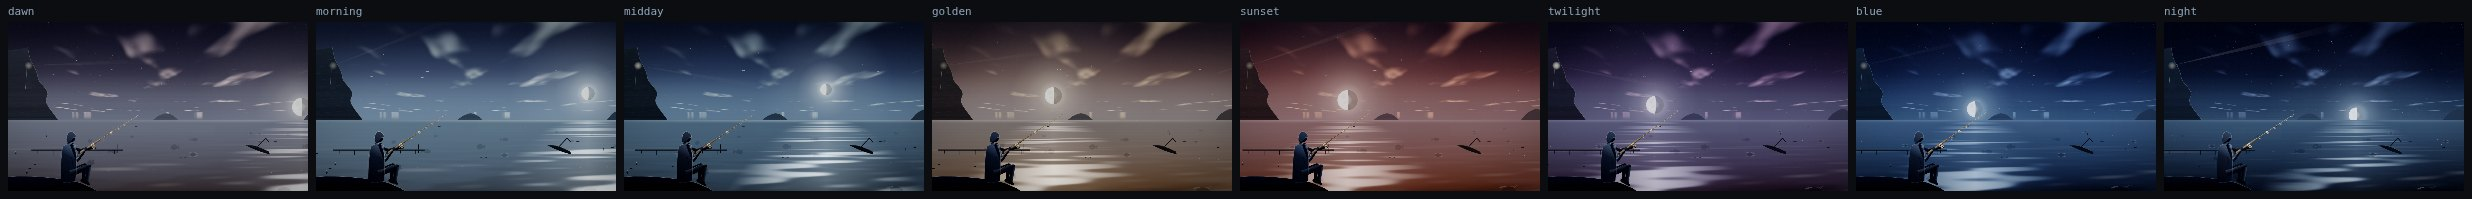
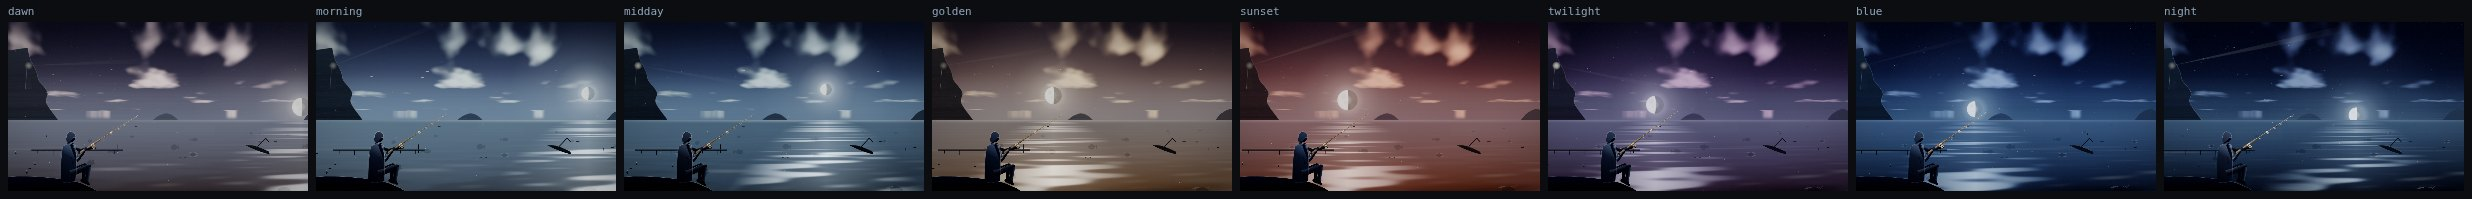
The wedges were the cloud projection, and the lag was resolution
TWO FAULTS IN ONE SCREENSHOT.

The sky was a fan of hard wedges radiating out of the light, with blocky
banding along the horizon. Both were mine and both were in the cloud deck.

THE FAN. A flat deck seen from below compresses toward the horizon as
1/angle, and I applied that to both axes, which is geometrically right and
visually fatal: lines of constant lateral coordinate then converge on the
vanishing point, so low-frequency noise sampled through it comes out as
wedges radiating from exactly there. Real cloud does converge, but a camera's
field of view is narrow enough that it converges gently over the part of the
sky you can see. The sideways term is pulled most of the way back toward flat
now — the recession stays, the fan goes.

THE BLOCKS. Value noise on a cubic interpolant is continuous in value and
first derivative but not the second, so its cell boundaries stay visible as
faint creases; summed over octaves that all sit on the same axis-aligned
lattice, the creases line up into rectangles. Quintic interpolation, and a
rotation between octaves so no two share a grid direction.

AND THE LAG WAS NOT THE SHADER BEING CLEVER, IT WAS THE SHADER BEING BIG.

The sky and the sea are the most expensive fragments in the game — a
multi-octave noise field over half the frame, every pixel, every frame — and
on a high-density display they were computed at four times the pixels they
can use. What is in them is a gradient, a cloud deck and a wave field: smooth,
[…]

diff --git a/js/gl/world.js b/js/gl/world.js
@@ -92,6 +92,7 @@ uniform float voidK;        // how much of this place is not water
 uniform float cloudAmt;     // 0 clear, 1 closed over
 uniform float cloudY;       // how high the deck sits. low deck = fast, big shapes
 uniform vec3  cloudTint;
+uniform int   qual;        // 0 low · 1 medium · 2 high · 3 cinematic
 uniform int   skyModel;     // 0 open · 1 closed · 2 inverted · 3 unbounded
 uniform int   waterModel;   // 0 open · 1 mirror · 2 swell · 3 still
 uniform sampler2D back;     // everything behind the water, already drawn
@@ -110,7 +111,11 @@ float hash21(vec2 p) {
 
 float vnoise(vec2 p) {
   vec2 i = floor(p), f = fract(p);
-  f = f * f * (3.0 - 2.0 * f);
+  /* Quintic rather than cubic. A cubic smoothstep is continuous in value and
+     first derivative but NOT the second, so the cell boundaries of the grid
+     stay visible as faint creases — and summed over octaves they line up into
+     the axis-aligned blocks that were showing along the horizon. */
+  f = f * f * f * (f * (f * 6.0 - 15.0) + 10.0);
   float a = hash21(i);
   float b = hash21(i + vec2(1.0, 0.0));
   float c = hash21(i + vec2(0.0, 1.0));
@@ -120,10 +125,15 @@ float vnoise(vec2 p) {
 
 float fbm(vec2 p, int oct) {
   float s = 0.0, a = 0.5;
+  /* Every octave is rotated as well as scaled. Scaling alone leaves each
+     octave on the same axis-aligned lattice as the last, so their cell edges
+     coincide and reinforce; a rotation between them means no two octaves
+     share a grid direction and the sum has no grain of its own. */
+  const mat2 rot = mat2(0.8000, 0.6000, -0.6000, 0.8000);
   for (int i = 0; i < 5; i++) {
     if (i >= oct) break;
     s += a * vnoise(p);
-    p = p * 2.03 + vec2(11.3, 7.7);
+    p = rot * p * 2.03 + vec2(11.3, 7.7);
     a *= 0.5;
   }
   return s;
@@ -167,9 +177,22 @@ vec2 clouds(vec2 p, float hy, float aspect, int oct) {
      hundred times its overhead value in the last two percent of the frame,
      and the deck stops being cloud and becomes horizontal stripes — correct
      perspective taken so far past what a screen can resolve that it reads as
-     a different material. Five times is the whole useful range. */
-  float dist = cloudY / max(ang, 0.045);
-  vec2 q = vec2((p.x - 0.5) * aspect * dist * 3.0 + camU * 0.9 + time * 0.010,
+     a different material.
+
+     AND THE LATERAL TERM IS DAMPED, which is the other half and the one that
+     made the sky unusable. A flat deck compresses toward the horizon as
+     1/angle in BOTH axes, so taken literally the lateral scale also stretches
+     by that factor — and lines of constant lateral coordinate are then lines
+     through the vanishing point, which turns low-frequency noise into a fan
+     of hard wedges radiating out of it. That is exactly what it drew.
+
+     Real cloud does converge, but a camera's field of view is narrow enough
+     that it converges gently over the part of the sky you can see. This is
+     the same projection with the sideways term pulled most of the way back
+     toward flat, which keeps the recession and loses the fan. */
+  float dist = cloudY / max(ang, 0.055);
+  float lat = mix(1.0, dist, 0.34);
+  vec2 q = vec2((p.x - 0.5) * aspect * lat * 2.6 + camU * 0.9 + time * 0.010,
                 dist * 1.5 + time * 0.004);
 
   float n = fbm(q, oct);
@@ -184,10 +207,16 @@ vec2 clouds(vec2 p, float hy, float aspect, int oct) {
   cov *= smoothstep(0.0, 0.030, ang);
 
   /* Lit from the light rather than from above: sample again a short way
-     toward it and take the difference. One extra FBM at three octaves buys
-     the whole sense of the deck having a shape. */
+     toward it and take the difference.
+
+     ONE OCTAVE, not a second whole FBM. What this term needs is the large
+     shape of the deck — which side of a mass of cloud faces the light — and
+     that lives entirely in the first octave; the rest was three more noise
+     evaluations per pixel buying detail nobody can see in a shading term.
+     Seven noise lookups per sky pixel to four, on half the frame, at sixty
+     frames a second. */
   vec2 toL = normalize(vec2((light.x - p.x) * aspect, ang - (hy - light.y)) + vec2(1e-5));
-  float n2 = fbm(q + toL * vec2(1.6, 0.9), oct - 1);
+  float n2 = vnoise(q + toL * vec2(1.6, 0.9)) * 0.5;
   float lit = clamp((n - n2) * 2.4 + 0.5, 0.0, 1.0);
   return vec2(cov, lit);
 }
@@ -224,8 +253,10 @@ vec3 skyAt(vec2 p, float hy, float aspect, bool reflected) {
        reads to a star detector as a sky full of stars, which is how it was
        caught. */
     float ra = max(1.0 - t, 0.34);
-    vec2 rq = vec2((p.x - 0.5) * aspect * 2.4 / ra + camU * 1.6, 1.1 / ra);
-    float rock = fbm(rq, 3) * 0.68 + fbm(rq * 4.3, 2) * 0.32;
+    float rlat = mix(1.0, 1.0 / ra, 0.34);
+    vec2 rq = vec2((p.x - 0.5) * aspect * 2.4 * rlat + camU * 1.6, 1.1 / ra);
+    float rock = qual <= 0 ? fbm(rq, 2)
+                           : fbm(rq, 3) * 0.68 + fbm(rq * 4.3, 2) * 0.32;
     c = mix(skyZen * 0.30, c, pow(t, 0.80));
     c *= 0.52 + rock * 1.05;
     /* Light off the underside of it, near the water where the water is
@@ -257,7 +288,11 @@ vec3 skyAt(vec2 p, float hy, float aspect, bool reflected) {
        the whole sky a second time, and nobody has ever resolved the fourth
        octave of a cloud in the water — the shape and the colour are the
        reflection, the grain is cost. */
-    vec2 cl = clouds(p, hy, aspect, reflected ? 2 : 4);
+    /* Octaves off the quality dial, and two fewer in the reflected copy —
+       mirror water evaluates the whole sky a second time, and nobody has
+       ever resolved the fourth octave of a cloud in the water. */
+    int co = qual <= 0 ? 2 : qual == 1 ? 3 : 4;
+    vec2 cl = clouds(p, hy, aspect, reflected ? max(2, co - 2) : co);
     if (cl.x > 0.0) {
       /* A cloud is lit sky, so its colour starts from the sky it is in rather
          than from white — which is the difference between weather and a
@@ -390,7 +425,8 @@ void main() {
   if (waterModel == 1 || waterModel == 3) {
     float dep = 46.0 / (k + 0.085);
     vec2 bq = vec2(px.x * (0.30 + 0.70 * k) * 0.022 + camU * 5.0, dep * 0.16);
-    float g = fbm(bq, 3) * 0.72 + fbm(bq * 3.7, 2) * 0.28;
+    float g = qual <= 0 ? fbm(bq, 2)
+                        : fbm(bq, 3) * 0.72 + fbm(bq * 3.7, 2) * 0.28;
     float show = smoothstep(0.02, 0.55, k) * (1.0 - fogAmt * 0.5);
     base = mix(base, mix(base, bed, 0.30 + g * 0.62), show * 0.80);
   }
@@ -491,6 +527,8 @@ void main() {
 }
 `;
 
+  const QUAL = { low: 0, medium: 1, high: 2, cinematic: 3 };
+
   let prog = null;
   let failed = false;
 
@@ -533,6 +571,8 @@ void main() {
       cloudAmt: U.clamp(P.cloudAmt, 0, 1),
       cloudY: U.clamp(P.cloudY, 0.02, 1.2),
       cloudTint: n(P.cloudTint),
+      qual: VF.gl.int(QUAL[VF.state.data.settings.quality] === undefined
+                        ? 2 : QUAL[VF.state.data.settings.quality]),
       skyModel: VF.gl.int(P.skyModel),
       waterModel: VF.gl.int(P.waterModel),
       back: back || null,

diff --git a/js/gl/post.js b/js/gl/post.js
@@ -170,7 +170,15 @@
       frag = vec4(c, 1.0);
     }`;
 
-  let bright = null, blur = null, resolve = null;
+  /* Straight through, flipped, for lifting the world buffer into the scene. */
+  const UP_FS = `#version 300 es
+    precision highp float;
+    in vec2 uv;
+    out vec4 frag;
+    uniform sampler2D src;
+    void main() { frag = texture(src, vec2(uv.x, 1.0 - uv.y)); }`;
+
+  let bright = null, blur = null, resolve = null, up = null;
   let failed = false, built = false;
 
   /* Exposure is smoothed in JS rather than measured off the frame. A real
@@ -187,7 +195,8 @@
     bright = VF.gl.program('post-bright', BRIGHT_FS);
     blur = VF.gl.program('post-blur', BLUR_FS);
     resolve = VF.gl.program('post-resolve', RESOLVE_FS);
-    failed = !(bright && blur && resolve);
+    up = VF.gl.program('post-up', UP_FS);
+    failed = !(bright && blur && resolve && up);
     return !failed;
   }
 
@@ -209,20 +218,70 @@
     return VF.gl.target('post-scene', dpr, true);
   }
 
+  /* THE WORLD DOES NOT NEED THE ART'S RESOLUTION.
+
+     The sky and the sea are the most expensive fragments in the game — a
+     multi-octave noise field over half the frame, per pixel, every frame —
+     and on a high-density display they were being computed at four times the
+     pixels they can possibly use. What is IN them is a gradient, a cloud
+     deck and a wave field: smooth, low-frequency, and indistinguishable at
+     three quarters scale.
+
+     What genuinely needs every pixel is the art on top of it — a rod is one
+     pixel wide in places, and rigging is thinner. So the world is rendered
+     small and scaled up, and the art layer is composited over it at full
+     resolution afterwards. The one thing lost is the very finest of the
+     specular glitter on the water, which is why this does not go below half
+     and why Cinematic does not do it at all. */
+  const WORLD_SCALE = { low: 0.5, medium: 0.62, high: 0.78, cinematic: 1 };
+
+  function worldTarget(q) {
+    const dpr = VF.gl.size().dpr || 1;
+    const k = WORLD_SCALE[q] === undefined ? 0.78 : WORLD_SCALE[q];
+    if (k >= 0.999) return null;              // straight into the scene buffer
+    return VF.gl.target('post-world', dpr * k, true);
+  }
+
   /* Open the frame. Everything drawn after this goes into the buffer instead
      of onto the canvas; end() puts it on the canvas. Returns null when post
      is unavailable, and every caller treats that as "draw straight to the
      screen the way you always did". */
-  function begin() {
+  function begin(q) {
     if (!ok() || !programs()) return null;
     const t = sceneTarget();
     if (!t) return null;
-    VF.gl.bind(t);
     const gl = VF.gl.ctx();
     gl.disable(gl.SCISSOR_TEST);
+    /* Whichever buffer the world is going into, cleared. */
+    const w = worldTarget(q);
+    VF.gl.bind(w || t);
     gl.clearColor(0, 0, 0, 1);
     gl.clear(gl.COLOR_BUFFER_BIT);
+    if (w) {
+      VF.gl.bind(t);
+      gl.clear(gl.COLOR_BUFFER_BIT);
+    }
     return t;
+  }
+
+  /* Where the world pass should draw: the small buffer when there is one, and
+     the scene buffer when there is not. */
+  function worldInto(q) {
+    return worldTarget(q) || sceneTarget();
+  }
+
+  /* And the small buffer up into the scene, before the art goes over it. A
+     plain textured pass; the target's own LINEAR filtering does the work. */
+  function lift(q) {
+    const w = worldTarget(q);
+    if (!w || !programs()) return false;
+    const t = sceneTarget();
+    if (!t) return false;
+    const gl = VF.gl.ctx();
+    gl.disable(gl.BLEND);
+    gl.disable(gl.SCISSOR_TEST);
+    gl.disable(gl.STENCIL_TEST);
+    return VF.gl.pass(up, { src: w }, t);
   }
 
   /* Everything a place asks of the chain, in one object, defaulted so a
@@ -322,6 +381,8 @@
   VF.glPost = {
     ok: ok,
     begin: begin,
+    worldInto: worldInto,
+    lift: lift,
     end: end,
     /* the tools ask what the chain is doing, and force it off */
     exposure: function () { return ev; },

diff --git a/js/render/scene.js b/js/render/scene.js
@@ -1135,8 +1135,13 @@
        finished image on the canvas at the end of the frame. Null when it is
        unavailable, and then everything below writes straight to the screen
        exactly as it did before there was one. */
-    const post = (world0 && useGl && VF.glPost) ? VF.glPost.begin() : null;
-    const world = glOn && VF.glWorld ? VF.glWorld.draw(L, P, backTex, post) : false;
+    const post = (world0 && useGl && VF.glPost) ? VF.glPost.begin(q) : null;
+    /* The world goes into its own smaller buffer when the quality level asks
+       for one, and is lifted into the scene before the art is drawn over it.
+       Nothing about the world pass changes; it is handed a different target. */
+    const world = glOn && VF.glWorld
+      ? VF.glWorld.draw(L, P, backTex, post ? VF.glPost.worldInto(q) : null) : false;
+    if (world && post) VF.glPost.lift(q);
     if (!world) { backTex = null; backTook = 0; }
     if (world) ctx.clearRect(0, 0, W, H);
 

diff --git a/js/gl/core.js b/js/gl/core.js
@@ -301,7 +301,15 @@
       if (t.sb) gl.deleteRenderbuffer(t.sb);
     }
 
-    const samples = Math.min(4, gl.getParameter(gl.MAX_SAMPLES) || 0);
+    /* Samples off the quality dial. Two full-resolution 4x multisampled
+       buffers per frame — one for each art layer — is the largest single
+       piece of bandwidth this renderer spends, and it was spending it the
+       same way on every machine. Four is worth having on the edges of a
+       headland; on a low setting it is worth nothing at all. */
+    const want = { low: 1, medium: 2, cinematic: 4 }[
+      (VF.state && VF.state.data && VF.state.data.settings.quality) || 'high'];
+    const samples = Math.min(want === undefined ? 4 : want,
+                             gl.getParameter(gl.MAX_SAMPLES) || 0);
     const rb = gl.createRenderbuffer();
     gl.bindRenderbuffer(gl.RENDERBUFFER, rb);
     if (samples > 1) {

diff --git a/js/ui/panels.js b/js/ui/panels.js
@@ -3412,7 +3412,8 @@
     const qRow = U.el('div', 'set-row');
     qRow.appendChild(U.el('label', null, 'Graphics'));
     const qSeg = U.el('div', 'seg');
-    [['low', 'Low'], ['medium', 'Medium'], ['high', 'High']].forEach(function (o) {
+    [['low', 'Low'], ['medium', 'Medium'], ['high', 'High'],
+     ['cinematic', 'Cinematic']].forEach(function (o) {
       const btn = U.el('button', s.quality === o[0] ? 'active' : '', o[1]);
       btn.addEventListener('click', function () {
         s.quality = o[0];

diff --git a/js/core/state.js b/js/core/state.js
@@ -168,7 +168,7 @@
         master: 0.8,
         music: 0.55,
         sfx: 0.75,
-        quality: 'high',      // low | medium | high
+        quality: 'high',      // low | medium | high | cinematic
         /* The stylesheet honours prefers-reduced-motion, but a media query
            reaches transitions and keyframes and nothing else — the two effects
            that are motion rather than decoration live on the canvas, where CSS
